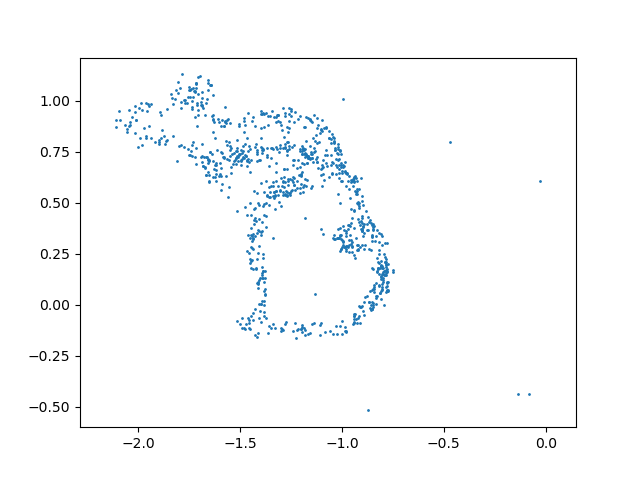
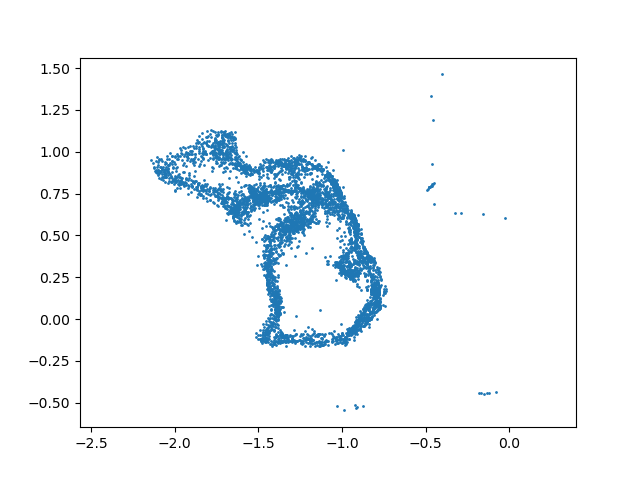
fix cond_gen plots

diff --git a/homework/hw5/code/cond_gen.py b/homework/hw5/code/cond_gen.py
@@ -73,6 +73,6 @@ for label in range(5):
     full_z = np.concatenate(full_z, axis=0)
     nll = dataset.calc_nll(full_z)
     print(f"Label {label}, NLL: {nll:.4f}")
-    dataset.show(z, os.path.join(plot_dir, f"label_{label}.png"))
+    dataset.show(full_z, os.path.join(plot_dir, f"label_{label}.png"))
     np.save(os.path.join(plot_dir, f"cond_gen_samples_{label}.npy"), full_z)
 
